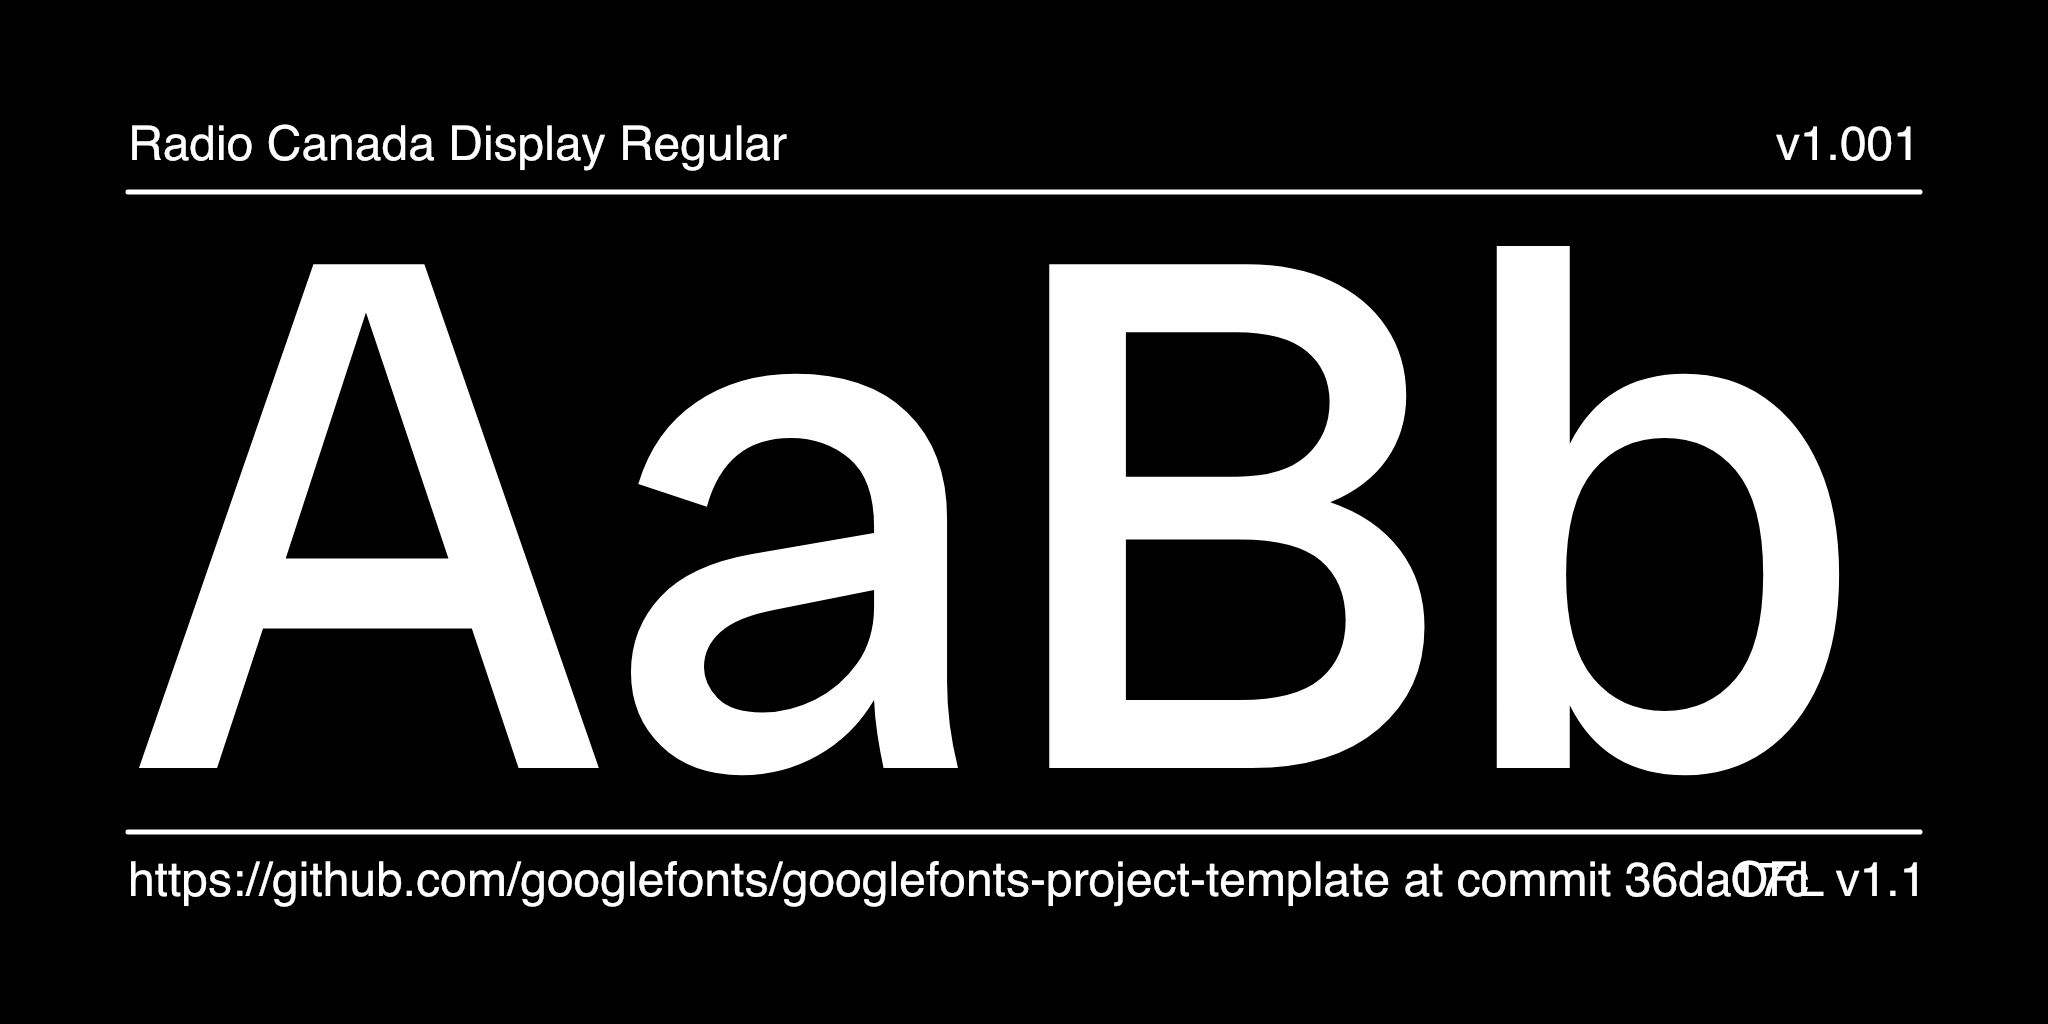
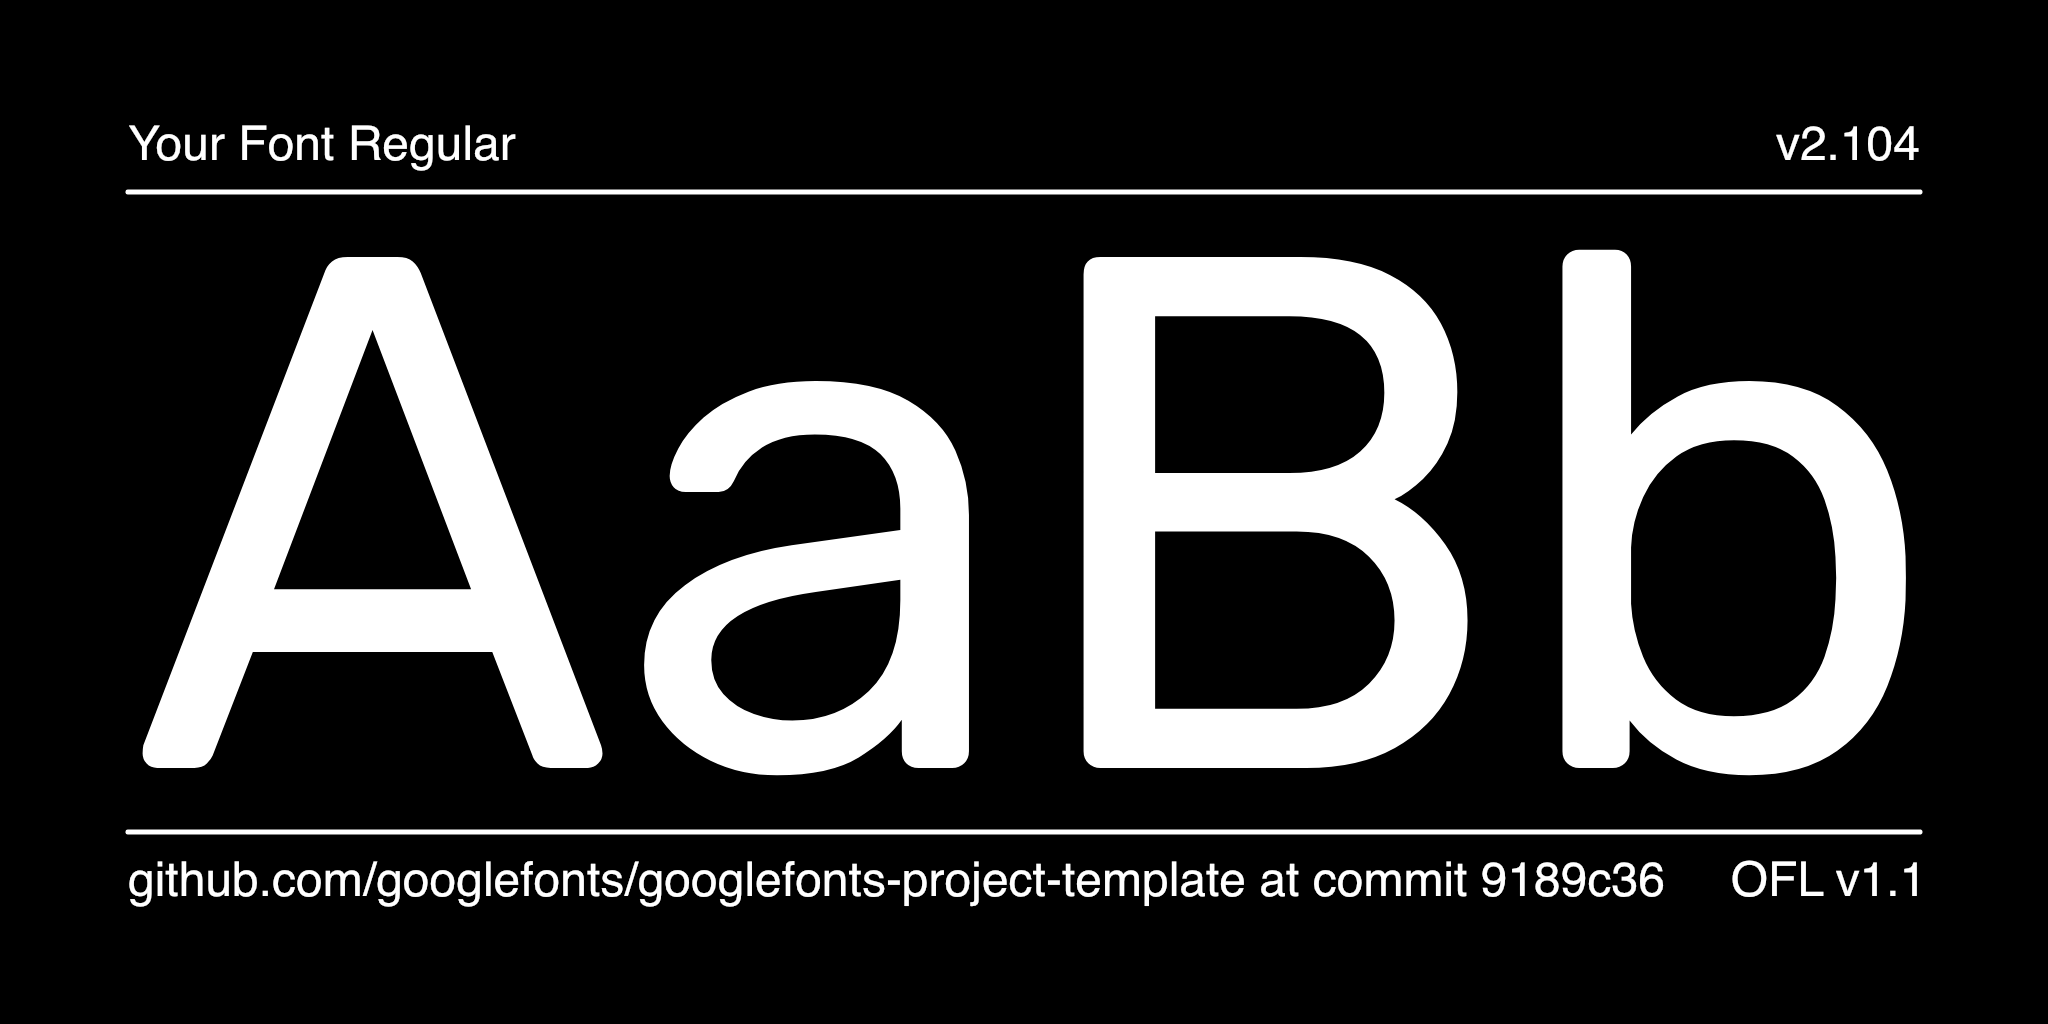
Add existing file

diff --git a/documentation/DESCRIPTION.en_us.html b/documentation/DESCRIPTION.en_us.html
@@ -1,0 +1,12 @@
+<p>
+    Please add a text describing the font here, 100 chracters or more, but no more than 500 words.
+    See https://googlefonts.github.io/gf-guide/description.html for further reference.
+    Please make sure that HTML characters are properly encoded. ('&' becomes &amp; etc.)
+    If unsure, use https://www.freeformatter.com/html-escape.html for formatting. (Use "Escape HTML").
+</p>
+<p>
+    Could be several paragraphs, also.
+</p>
+<p>
+    To contribute, see <a href="https://github.com/youruseraccount/yourrepository">github.com/youruseraccount/yourrepository</a>.
+</p>

diff --git a/documentation/image1.py b/documentation/image1.py
@@ -16,7 +16,7 @@ import argparse
 
 # Constants, these are the main "settings" for the image
 WIDTH, HEIGHT, MARGIN, FRAMES = 2048, 1024, 128, 1
-FONT_PATH = "fonts/ttf/RadioCanadaDisplay-Regular.ttf"
+FONT_PATH = "fonts/ttf/Cause[wght].ttf"
 FONT_LICENSE = "OFL v1.1"
 AUXILIARY_FONT = "Helvetica"
 AUXILIARY_FONT_SIZE = 48

diff --git a/documentation/image2.py b/documentation/image2.py
@@ -16,7 +16,7 @@ import argparse
 
 # Constants, these are the main "settings" for the image
 WIDTH, HEIGHT, MARGIN, FRAMES = 2048, 1024, 128, 1
-FONT_PATH = "fonts/ttf/RadioCanadaDisplay-Regular.ttf"
+FONT_PATH = "fonts/ttf/Cause[wght].ttf"
 FONT_LICENSE = "OFL v1.1"
 AUXILIARY_FONT = "Helvetica"
 AUXILIARY_FONT_SIZE = 48

diff --git a/README.md b/README.md
@@ -1,72 +1,33 @@
-## Setting up your font
+----
 
-### New repositories
+# Cause (Variable)
 
-1. Hit the green button above ("Use this template") to create your own repository.
+[![][Fontbakery]](https://googlefonts.github.io/googlefonts-project-template/fontbakery/fontbakery-report.html)
+[![][Universal]](https://googlefonts.github.io/googlefonts-project-template/fontbakery/fontbakery-report.html)
+[![][GF Profile]](https://googlefonts.github.io/googlefonts-project-template/fontbakery/fontbakery-report.html)
+[![][Outline Correctness]](https://googlefonts.github.io/googlefonts-project-template/fontbakery/fontbakery-report.html)
+[![][Shaping]](https://googlefonts.github.io/googlefonts-project-template/fontbakery/fontbakery-report.html)
+[![][OpenType Specification]](https://googlefonts.github.io/googlefonts-project-template/fontbakery/fontbakery-report.html)
+[![][Repository]](https://googlefonts.github.io/googlefonts-project-template/fontbakery/fontbakery-report.html)
 
-2. Clone the repository, and replace the font sources in the `sources` directory with your own font sources. These sources may be either in Glyphs format or UFO/Designspace formats.\
-   \
-   Unlike many open source distributors, Google Fonts is **curated**. Fonts shipped to the platform have to match the [Google Fonts Specifications](https://github.com/googlefonts/gf-docs/tree/main/Spec). Please read them carefully.\
-   \
-   _(The sample font provided in this template is [Radio Canada](https://github.com/googlefonts/radiocanadadisplay/) by Charles Daoud, Etienne Aubert Bonn, Alexandre Saumier Demers and contributors.)_
+[Fontbakery]: https://img.shields.io/endpoint?url=https%3A%2F%2Fraw.githubusercontent.com%2Fxconsau%2Fcause%2Fgh-pages%2Fbadges%2Foverall.json
+[Universal]: https://img.shields.io/endpoint?url=https%3A%2F%2Fraw.githubusercontent.com%2Fxconsau%2Fcause%2Fgh-pages%2Fbadges%2FUniversalProfileChecks.json
+[GF Profile]: https://img.shields.io/endpoint?url=https%3A%2F%2Fraw.githubusercontent.com%2Fxconsau%2Fcause%2Fgh-pages%2Fbadges%2FFontFileChecks.json
+[Outline Correctness]: https://img.shields.io/endpoint?url=https%3A%2F%2Fraw.githubusercontent.com%2Fxconsau%2Fcause%2Fgh-pages%2Fbadges%2FOutlineChecks.json
+[Shaping]: https://img.shields.io/endpoint?url=https%3A%2F%2Fraw.githubusercontent.com%2Fxconsau%2Fcause%2Fgh-pages%2Fbadges%2FShapingChecks.json
+[OpenType Specification]: https://img.shields.io/endpoint?url=https%3A%2F%2Fraw.githubusercontent.com%2Fxconsau%2Fcause%2Fgh-pages%2Fbadges%2FOpenTypeSpecificationChecks.json
+[Repository]: https://img.shields.io/endpoint?url=https%3A%2F%2Fraw.githubusercontent.com%2Fxconsau%2Fcause%2Fgh-pages%2Fbadges%2FRepositoryChecks.json
 
-3. Then reference the sources in the file `sources/config.yaml`, as well as making any other changes you would like to make based on the instructions in the [Google Fonts Builder documentation](https://github.com/googlefonts/gftools/blob/main/Lib/gftools/builder/__init__.py).
+A semi-casual and optimistic sans-serif typeface, designed specifically for use in non-profit organizations, educational institutions, environmental campaigns and learning applications.
 
-4. Add yourself to the `AUTHORS.txt` and `CONTRIBUTORS.txt` files.
+The font's design is mono-linear with rounded ends. The font is a result of the requirement where one needs a semi casual font (while not being too comic) – to be able to convey a serious message but in a friendly and comfortable way. Such a requirement is often seen in design works related to education, non-profit, food blogs, environmental campaigns and children collaterals, to list some.
 
-5. Fill out `documentation/DESCRIPTION.en_us.html` with a description about your font.
-
-6. Rewrite this Readme file according to the recommendations in the [Google Fonts Guide](https://googlefonts.github.io/gf-guide/readmefile.html).
-
-7. Add and commit these files to git.
-
-8. **At the command line, run `make customize` to ensure that all the paths and URLs in your project are correct**. This will also push your changes to GitHub.
-
-9. **Set up your GitHub pages site**: go to Settings > Pages and ensure that the "Source" drop-down is set to "Deploy from a Branch". Ensure that the "Branch" is set to `gh-pages`. If this branch is not available, check that the "Build font and specimen" action in the "Actions" tab has completed; if it completed successfully, then try again - `gh-pages` should now be an option.
-
-10. If Github Actions has successfully built the family, you will find the font binaries in the Actions tab. The official Github Actions documentation provides further [information](https://docs.github.com/en/actions/managing-workflow-runs/downloading-workflow-artifacts).
-
-### Updating a repository
-
-1. To update your font repository to bring in the latest best-practices from the Google Fonts Project Template, run `make update-project-template` from the command line. This requires the `node` Javascript engine to be installed; if you don't have that already, [follow these instructions](https://nodejs.org/en/download/package-manager#macos) to install on your platform.
-
-2. To update the Python build chain which builds your fonts, run `make update` and `git add`/`git commit` the new `requirements.txt`.
-
-## More things to do
-
-- `CustomFilter_GF_Latin_All.plist` in `sources` is practical if you use GlyphsApp, you can remove it otherwise. Placed in the same directory as the your `.glyphs` file, it will allow Glyphs to display a filter list for all GF Latin glyphsets in app. To make sure your font supports the minimal set required by Google Fonts, look at the `GF_Latin_Core` filter list. Find other glyphsets and list formats for different software in [GF Glyphsets repository](https://github.com/googlefonts/glyphsets/tree/main/GF_glyphsets).
-
-- Once you are happy with your font, add promotional assets in the documentation directory. Make it different from the pic you use in this README. You can get inspired by existing tweet @googlefonts like: https://twitter.com/googlefonts/status/1415562928657416192.
-
-- Google Fonts uses Github Releases to manage font families. If you feel your font project has hit a milestone, you must create a new release for it. In order to do this, go to the releases page and hit the "Draft a new release button". You must provide a tag number and title which can only be a decimal number e.g 0.100, 1.000 etc. For the body text, mention what has changed since the last release. Once you are done, hit the "Publish release" button. Here is an example which fulfills the requirements, https://github.com/m4rc1e/test-ufr-family/releases/tag/2.019. For more info regarding Github release, please see the official Github Release [documentation](https://docs.github.com/en/repositories/releasing-projects-on-github/managing-releases-in-a-repository). **Please note that Github Actions must be able to build the fonts before you can make a release. Once you have made a release, the fonts and tests assets will be attached to the release automatically. This may take a while since the fonts and tests will be built from scratch so please be patient.**
-
----
-
-# My Font
-
-[![][Fontspector]](https://googlefonts.github.io/googlefonts-project-template/fontspector/fontspector-report.html)
-[![][OpenType]](https://googlefonts.github.io/googlefonts-project-template/fontspector/fontspector-report.html)
-[![][Universal]](https://googlefonts.github.io/googlefonts-project-template/fontspector/fontspector-report.html)
-[![][Google Fonts]](https://googlefonts.github.io/googlefonts-project-template/fontspector/fontspector-report.html)
-[![][Glyphset]](https://googlefonts.github.io/googlefonts-project-template/fontspector/fontspector-report.html)
-
-[Fontspector]: https://img.shields.io/endpoint?url=https%3A%2F%2Fgooglefonts.github.io%2Fgooglefonts-project-template%2Fbadges%2FFontspectorQA.json
-[OpenType]: https://img.shields.io/endpoint?url=https%3A%2F%2Fgooglefonts.github.io%2Fgooglefonts-project-template%2Fbadges%2FOpentypeSpecificationChecks.json
-[Universal]: https://img.shields.io/endpoint?url=https%3A%2F%2Fgooglefonts.github.io%2Fgooglefonts-project-template%2Fbadges%2FUniversalProfileChecks.json
-[Google Fonts]: https://img.shields.io/endpoint?url=https%3A%2F%2Fgooglefonts.github.io%2Fgooglefonts-project-template%2Fbadges%2FFontFileChecks.json
-[Outline Correctness]: https://img.shields.io/endpoint?url=https%3A%2F%2Fgooglefonts.github.io%2Fgooglefonts-project-template%2Fbadges%2FOutlineCorrectnessChecks.json
-[Glyphset]: https://img.shields.io/endpoint?url=https%3A%2F%2Fgooglefonts.github.io%2Fgooglefonts-project-template%2Fbadges%2FGlyphsetChecks.json
-
-Description of your font goes here. We recommend to start with a very short presentation line (the kind you would use on twitter to present your project for example), and then add as much details as necesary :-) Origin of the project, idea of usage, concept of creation… but also number of masters, axes, character sets, etc.
-
-Don't hesitate to create images!
-
-![Sample Image](documentation/image1.png)
-![Sample Image](documentation/image2.png)
-
-## About
-
-Description of you and/or organisation goes here.
+![Sample Image](documentation/c1.png)
+![Sample Image](documentation/c2.png)
+![Sample Image](documentation/c3.png)
+![Sample Image](documentation/c4.png)
+![Sample Image](documentation/c5.png)
+![Sample Image](documentation/c6.jpg)
 
 ## Building
 
@@ -74,27 +35,22 @@ Fonts are built automatically by GitHub Actions - take a look in the "Actions" t
 
 If you want to build fonts manually on your own computer:
 
-- `make build` will produce font files.
-- `make test` will run [FontBakery](https://github.com/googlefonts/fontbakery)'s quality assurance tests.
-- `make proof` will generate HTML proof files.
+* `make build` will produce font files.
+* `make test` will run [FontBakery](https://github.com/googlefonts/fontbakery)'s quality assurance tests.
+* `make proof` will generate HTML proof files.
 
 The proof files and QA tests are also available automatically via GitHub Actions - look at `https://yourname.github.io/your-font-repository-name`.
 
 ## Changelog
 
-When you update your font (new version or new release), please report all notable changes here, with a date.
-[Font Versioning](https://github.com/googlefonts/gf-docs/tree/main/Spec#font-versioning) is based on semver.
-Changelog example:
-
-**26 May 2021. Version 2.13**
-
-- MAJOR Font turned to a variable font.
-- SIGNIFICANT New Stylistic sets added.
+**11 Apr 2024. Version 0.1**
+- Initial release
 
 ## License
 
 This Font Software is licensed under the SIL Open Font License, Version 1.1.
-This license is available with a FAQ at https://openfontlicense.org
+This license is available with a FAQ at
+https://scripts.sil.org/OFL
 
 ## Repository Layout
 
